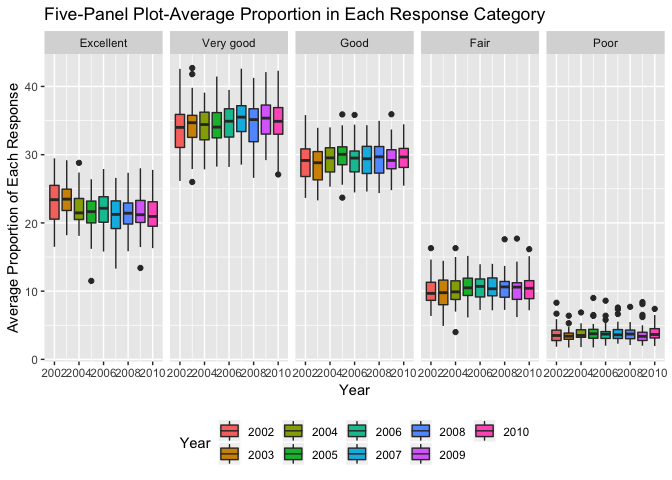
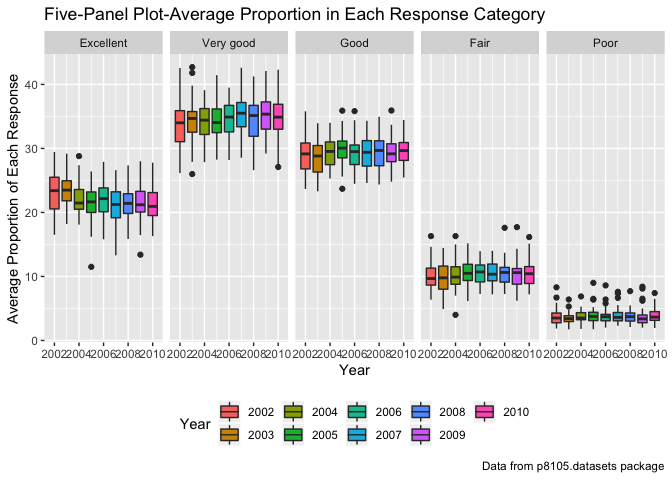
answer question2 in problem 3

diff --git a/p8105_hw3_zw2541.md b/p8105_hw3_zw2541.md
@@ -53,7 +53,8 @@ brfss %>%
   labs(
         title = "Spaghetti Plot-Number of Locations in Each State from 2002 to 2010",
         y = "Number of locations",
-        x = "Year") +
+        x = "Year",
+        caption = "Data from p8105.datasets package") +
   theme(legend.position = "bottom",
         legend.key.width = unit(.25, 'cm')) +
   guides(color = guide_legend(ncol = 15))
@@ -96,7 +97,8 @@ brfss %>%
   labs(
         title = "Five-Panel Plot-Average Proportion in Each Response Category",
         y = "Average Proportion of Each Response",
-        x = "Year") +
+        x = "Year",
+        caption = "Data from p8105.datasets package") +
   theme(legend.position = "bottom") +
   scale_fill_discrete(name = "Year")
 ```
@@ -221,7 +223,8 @@ There are 134 distinct aisles, and "fresh vegetables" aisle is the most items or
   labs(
     title = "the Number of Items Ordered in Each Aisle",
     x = "Aisle",
-    y = "Number of Items") 
+    y = "Number of Items",
+    caption = "Data from p8105.datasets package") 
 ```
 
 ![](p8105_hw3_zw2541_files/figure-markdown_github/unnamed-chunk-8-1.png)
@@ -346,3 +349,30 @@ ny_noaa_tidy %>%
     ## # ... with 271 more rows
 
 "0" is the most commonly observed value for snowfall, since snowfall is not a frequently occured weather phenomena.
+
+-   Make a two-panel plot showing the average max temperature in January and in July in each station across years. Is there any observable / interpretable structure? Any outliers?
+
+``` r
+ny_noaa_tidy %>% 
+  filter(month %in% c("01", "07")) %>% 
+  mutate(month = recode(month, "01" = "January", "07" = "July")) %>% 
+  group_by(id, year, month) %>% 
+  summarize(mean_tmax = mean(tmax, na.rm = T)) %>% 
+  ggplot(aes(x = year, y = mean_tmax)) +
+  geom_boxplot() +
+  facet_grid(~ month) +
+  coord_flip() +
+  labs(
+    title = "Average Max Temperature in January and July in Each Station Across Years",
+    x = "Year",
+    y = "Average Max Temperature",
+    caption = "Data from p8105.datasets package")
+```
+
+    ## Warning: Removed 5970 rows containing non-finite values (stat_boxplot).
+
+![](p8105_hw3_zw2541_files/figure-markdown_github/unnamed-chunk-14-1.png)
+
+The average maximum temperature in January is around 0 degree and the average maximum temperature in July is around 27.5 degree. However, the average maximum temperature in January is more fluctuated compared to July. And both in January and July exist some outliers. There are both higher and lower outliers in January, which means the maximum temperature in NY at that time are really fluctuated among different weather station. And in July, there only exist some lower outliers, which implies that in some areas in NY, the weather can be much lower compared to other areas.
+
+-   Make a two-panel plot showing (i) tmax vs tmin for the full dataset (note that a scatterplot may not be the best option); and (ii) make a plot showing the distribution of snowfall values greater than 0 and less than 100 separately by year.
